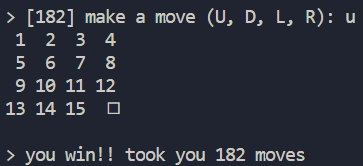
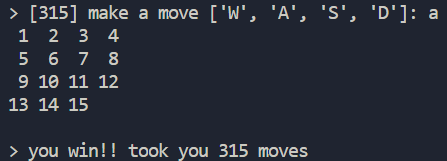
readme updates

diff --git a/README.md b/README.md
@@ -4,7 +4,8 @@ the **15 puzzle** is a 4x4 sliding puzzle game where there are 15 tiles and one 
 
 im lowkey trash at the game so i took 182 moves to solve it lmao
 
-![screenshot of the game](img/win.png)
+![screenshot of the game](img/game.png)
+![screenshot of winning](img/win.png)
 
 ## coding process
 
